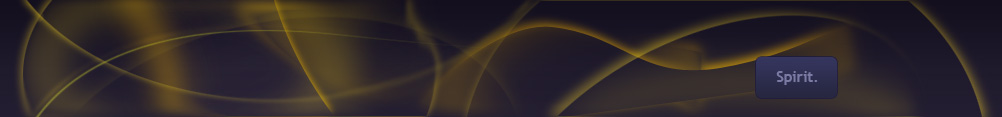
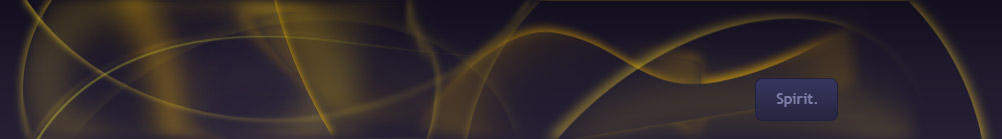
ajustando

diff --git a/mod1(pictures)_pag01(index).html b/mod1(pictures)_pag01(index).html
@@ -20,6 +20,26 @@
     <![endif]-->
   </head>
 <body class="pictures" id="index">
+  <section id="social_network">
+    <p>
+      <a href="http://beonthe.net" title="Criar site é com Be on the Net. Tenha um site assim.">
+        <img alt="Be on the Net" src="http://beonthe.net/accounts/beonthe.net/images/icons/beonthenet_16.png">
+      </a>
+      <a href="http://facebook.com" title="Acompanhe {{account name}} no Facebook.">
+        <img alt="Facebook" src="http://beonthe.net/accounts/beonthe.net/images/icons/facebook_16.gif" />
+      </a> 
+      <a href="http://orkut.com.br" title="Acompanhe {{account name}} no Orkut.">
+        <img alt="Orkut" src="http://beonthe.net/accounts/beonthe.net/images/icons/orkut_16.gif" />
+      </a>
+      <a href="http://twitter.com" title="Siga {{account name}} no Twitter.">
+        <img alt="Twitter" src="http://beonthe.net/accounts/beonthe.net/images/icons/twitter_16.gif" />
+      </a>
+      <a href="http://blogger.com" title="Veja o blog de {{account name}}.">
+        <img alt="Blogger" src="http://beonthe.net/accounts/beonthe.net/images/icons/blogger_16.gif" />
+      </a>
+    </p>
+  </section>
+
   <div id="header">
     <p>
       <strong id="logo_print">

diff --git a/stylesheets/20_layout_screen.css b/stylesheets/20_layout_screen.css
@@ -97,6 +97,36 @@ code {
 /* /Layout (screen) global settings */
 
 
+/* Social network */
+#social_network {
+  text-align:             right;
+
+  display:                block;
+  padding:                3px 2px;
+
+  background:             url(../images/header_bg.jpg) top;
+}
+
+#social_network p {
+  height:                 16px;
+  margin:                 0;
+}
+
+#social_network a {
+  margin-left:            3px;
+}
+#social_network a:first-child {
+  float:                  left;
+  margin:                 0;
+
+  opacity:                .4;
+}
+#social_network a:first-child:hover {
+  opacity:                1;
+}
+/* /Social network */
+
+
 /* Header */
 #header, #main_content, #footer {
   padding-right:        3.9em;

diff --git a/stylesheets/30_color_screen_handheld.css b/stylesheets/30_color_screen_handheld.css
@@ -198,7 +198,7 @@ code, .text th {
 }
 
 #header {
-  background:             url(../images/header_bg.jpg) top;
+  background:             url(../images/header_bg.jpg) bottom;
   border-bottom-color:    #3B3B48;
 }
 
